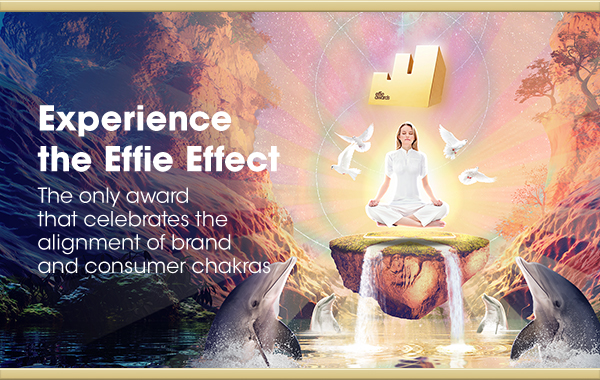
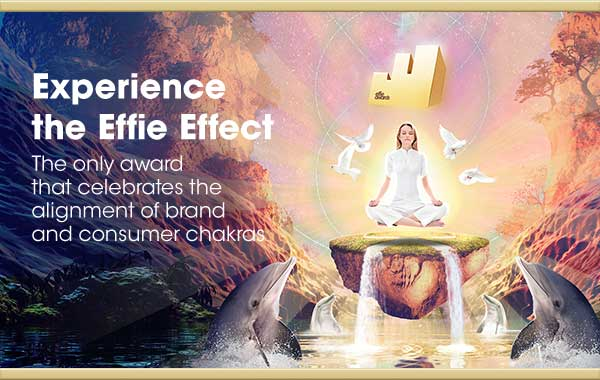
local changes

diff --git a/index.html b/index.html
@@ -211,7 +211,7 @@
 										<table class="w640" align="center">
 											<tr><td class="w640" width="640" height="30"></td></tr>
 											<tr><td class="w640" width="640" align="center">
-												<img class="w640" src="images/effie-awards-divider.png" border="0" align="center" style="display: inline">
+												<img class="w640" src="images/effie-awards-divider.jpg" border="0" align="center" style="display: inline">
 											</td></tr>
 											<tr><td class="w640" width="640" height="30"></td></tr>
 										</table>
@@ -231,7 +231,7 @@
 										<table class="w640" align="center">
 											<tr><td class="w640" width="640" height="30"></td></tr>
 											<tr><td class="w640" width="640" align="center">												
-												<img class="w640" src="images/effie-awards-divider.png" border="0" align="top" style="display: inline">
+												<img class="w640" src="images/effie-awards-divider.jpg" border="0" align="top" style="display: inline">
 											</td></tr>
 											<tr><td class="w640" width="640" height="30"></td></tr>
 										</table>
